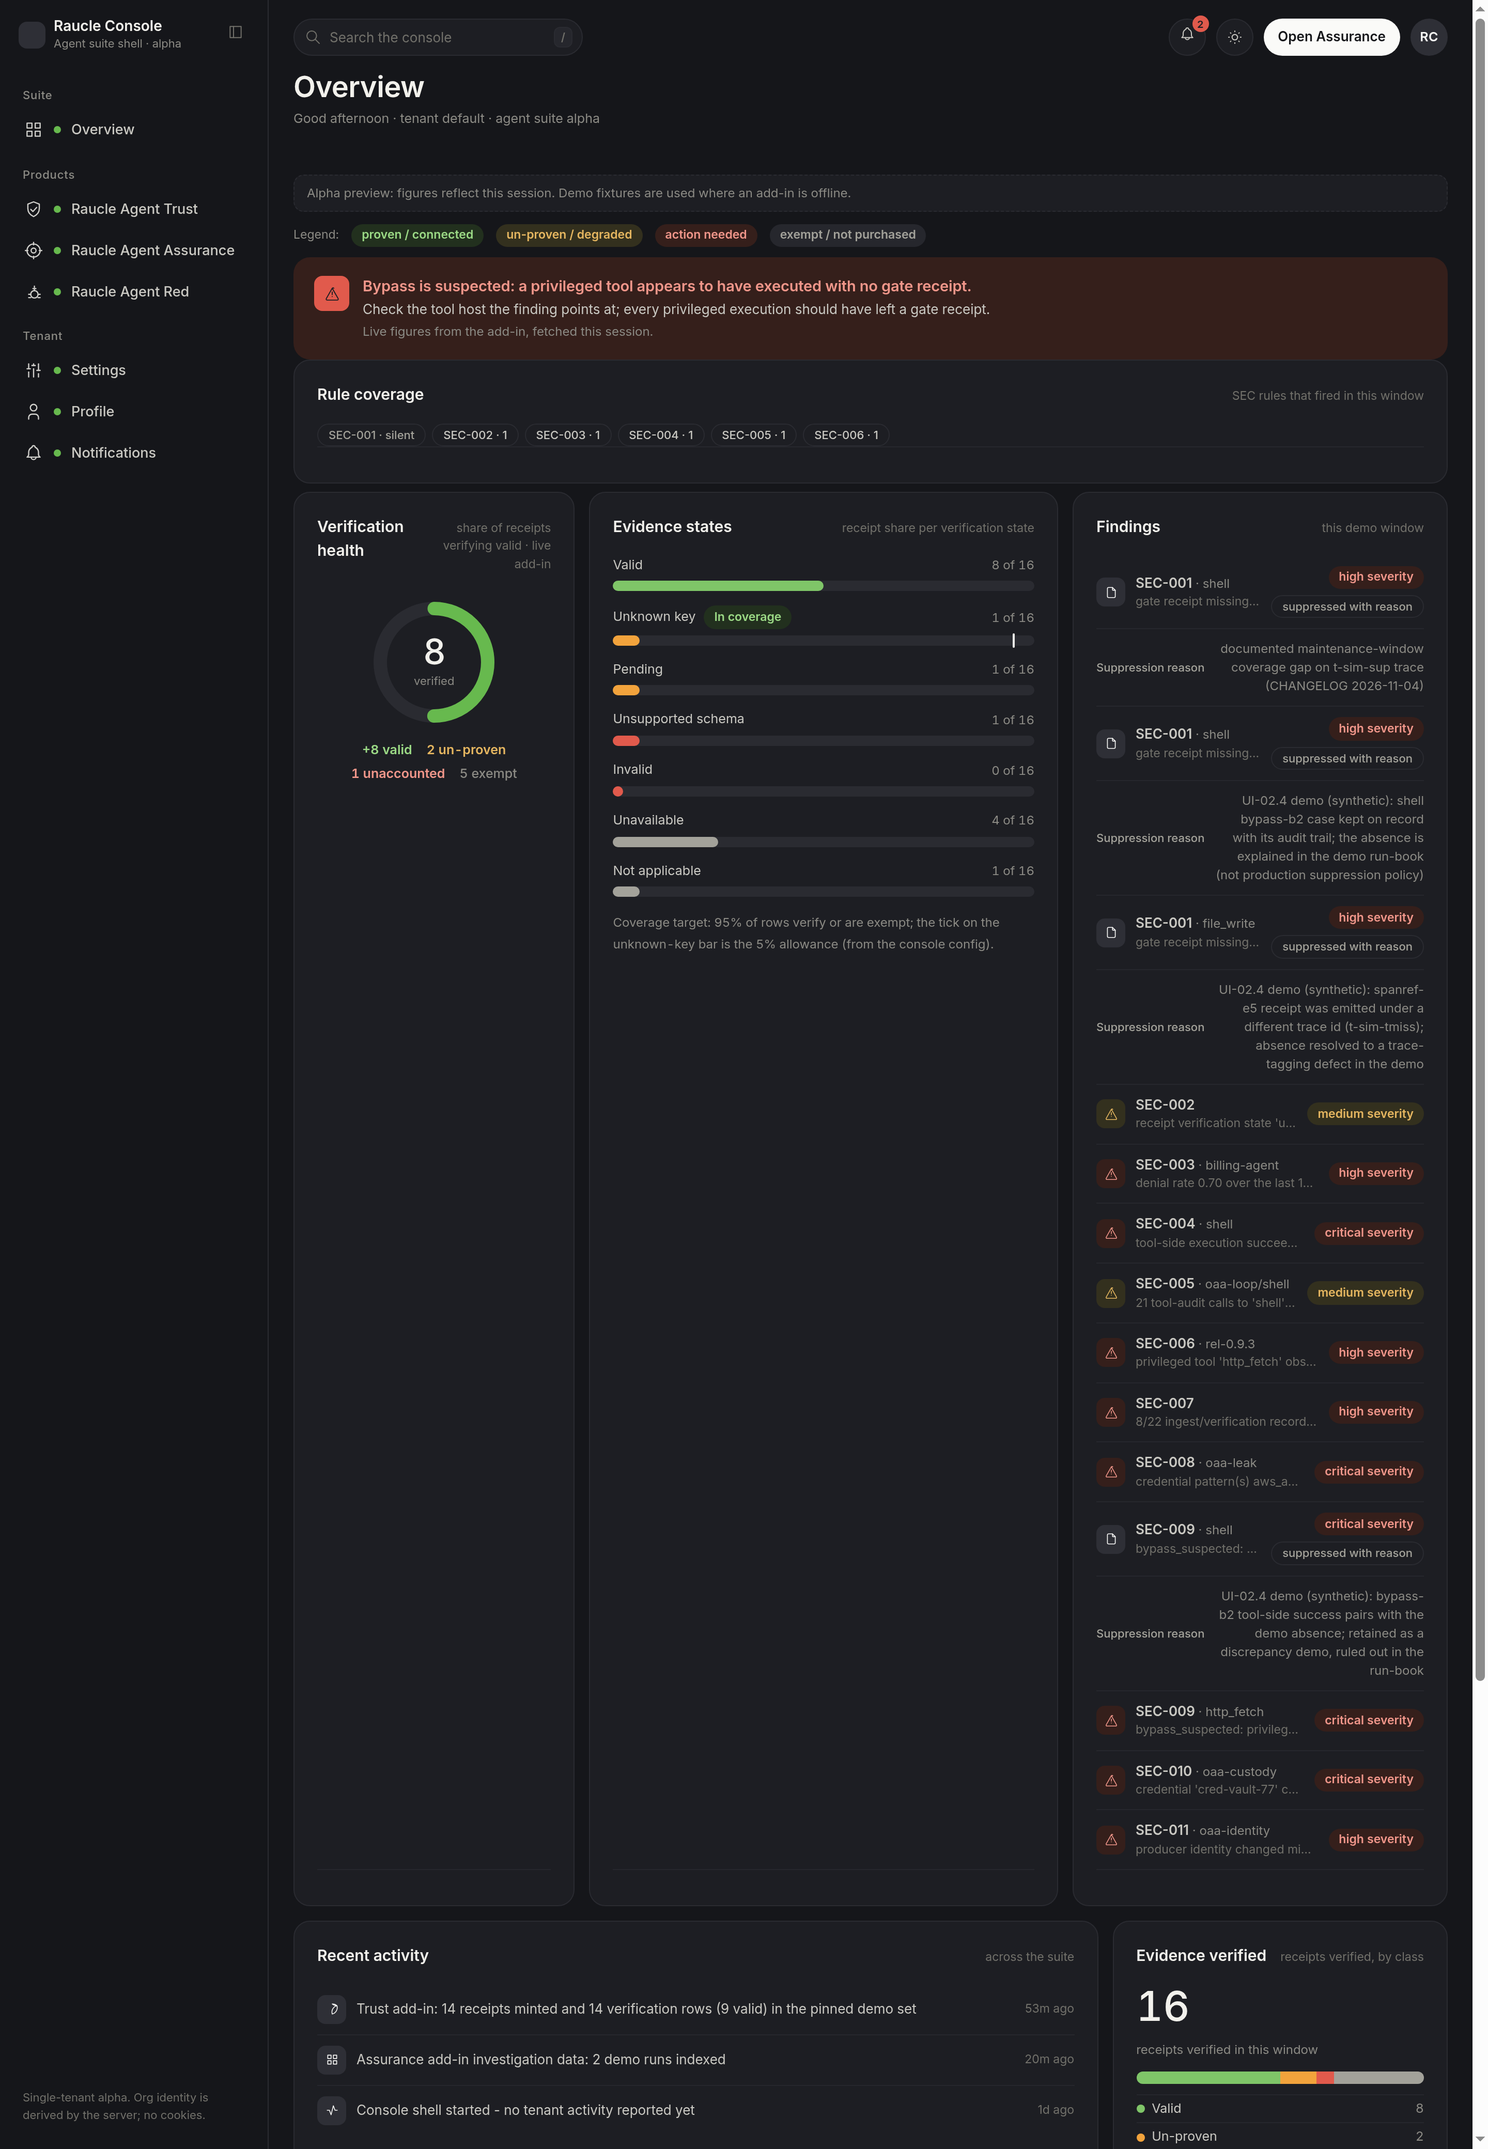
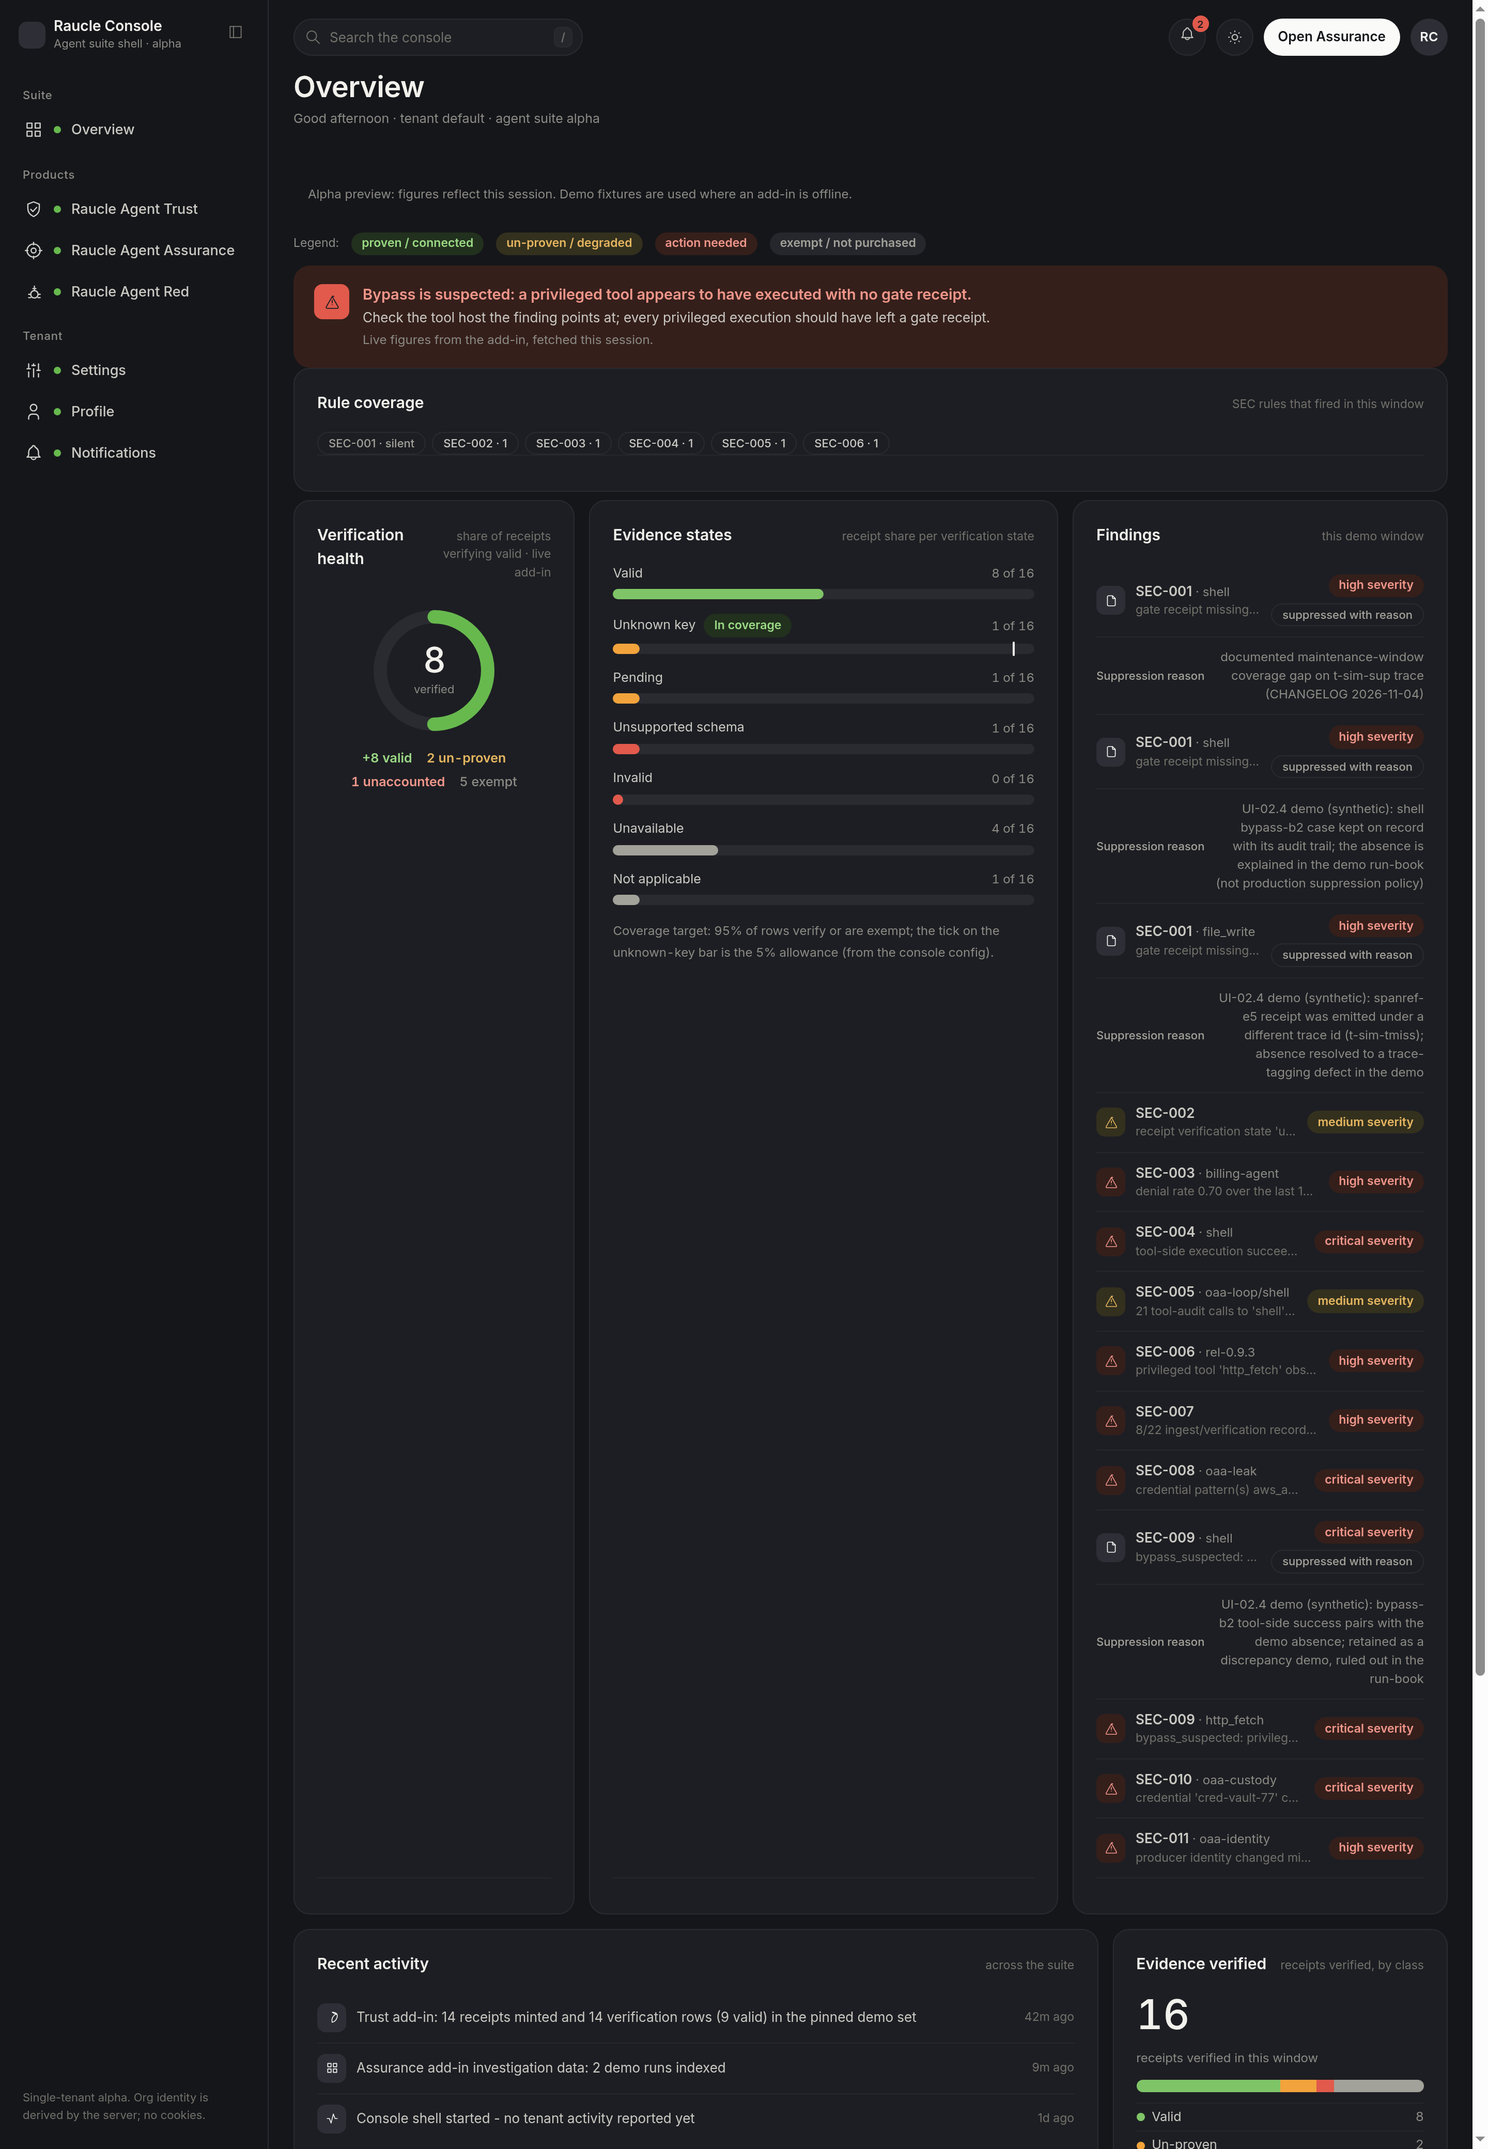
feat: Trust/Assurance/Red definition paragraphs in the alpha notice box; same-origin Red findings-red proxy; demo script Act 5 rewritten for the live Red runner run (named gate, live counters, ingest flow, what-if answers)

diff --git a/services/console/static/index.html b/services/console/static/index.html
@@ -81,7 +81,10 @@
     </div>
 
     <main class="content" id="view" tabindex="0">
-      <p class="alpha-line">Alpha preview: figures reflect this session. Demo fixtures are used where an add-in is offline.</p>
+      <div class="alpha-box">
+        <p class="alpha-line">Alpha preview: figures reflect this session. Demo fixtures are used where an add-in is offline.</p>
+        <p class="alpha-def" id="page-def"></p>
+      </div>
       <div id="legend" class="legendbar" aria-label="Legend"></div>
       <div id="page" aria-live="polite"></div>
     </main>
@@ -163,7 +166,8 @@ let dash = null;      /* add-in dashboard proxy payload; null when offline */
 let counts = null;    /* add-in /api/counts proxy payload; null when offline */
 let findings = null;  /* add-in findings proxy payload; null when offline  */
 let trends = null;    /* per-run trend series from the console /api/trends */
-let config = { assurance_url: 'http://127.0.0.1:3411', trust_gate_env: 'RAUCLE_TRUST_GATE_CONFIG', coverage_target_pct: 95 };
+let portalPolicies = null; /* portal policy summary proxy; {pending:true} when offline/unauthorised */
+let config = { assurance_url: 'http://127.0.0.1:3411', trust_portal_url: 'http://127.0.0.1:8090', trust_gate_env: 'RAUCLE_TRUST_GATE_CONFIG', coverage_target_pct: 95 };
 const COVERAGE_DEFAULT = 95;
 
 const PILL_NAME = { connected: 'Connected', degraded: 'Degraded', not_purchased: 'Not purchased' };
@@ -885,6 +889,34 @@ function viewTrust() {
   cc.body.appendChild(el('p', null, 'Point the console at your gate configuration by setting the environment variable ' + config.trust_gate_env + ' (the path to your gate config). Restart the console after the change; the value itself is never displayed.'));
   cc.explain('The gate config path is read from the environment; the console never displays or echoes the value itself.');
   p.appendChild(cc.root);
+  /* Manage policies (Trust-dashboard reconcile, 4 Nov): the H1 portal
+     is the Trust add-in's management UI - one editor, one version
+     history, one audit trail. This card narrates and links; it never
+     renders a second editor. */
+  const pc = card('Manage policies', 'the portal owns deep management');
+  const where = el('p');
+  where.textContent = 'Policy authoring lives in the operator portal (' + (config.trust_portal_url || 'http://127.0.0.1:8090') + '): the structured policy editor, the immutable version history with diffs, the Trust Ladder, manual activate/disable with signed deployment receipts, and filtered receipt search.';
+  pc.body.appendChild(where);
+  const open = el('a', 'pill tok-info', 'Open the portal');
+  open.href = (config.trust_portal_url || 'http://127.0.0.1:8090') + '/';
+  open.target = '_blank';
+  open.rel = 'noopener';
+  pc.body.appendChild(open);
+  const sum = portalPolicies;
+  if (sum && !sum.pending && sum.total !== undefined) {
+    const chips = el('p');
+    chips.appendChild(el('span', 'pill tok-good', 'active ' + (sum.active || 0)));
+    chips.appendChild(el('span', 'pill tok-look', 'draft ' + (sum.draft || 0)));
+    chips.appendChild(el('span', 'pill tok-exempt', 'disabled ' + (sum.disabled || 0)));
+    chips.appendChild(el('span', 'muted small', 'inventory summary from the portal'));
+    pc.body.appendChild(chips);
+  } else {
+    const pend = el('p', 'muted small');
+    pend.textContent = sum && sum.status === 401 ? 'Portal owns deep management; summary endpoint pending (the console holds no portal credential in alpha).' : 'Portal owns deep management; summary endpoint pending (portal offline).';
+    pc.body.appendChild(pend);
+  }
+  pc.explain('One editor, one version history, one audit trail: deep policy management happens in the portal, this page only narrates and links.');
+  p.appendChild(pc.root);
   return p;
 }
 
@@ -1482,6 +1514,14 @@ function markCurrent(route) {
   });
 }
 
+/* per-product definition, shown in the alpha box under the top notice */
+const PAGE_DEF = {
+  trust: 'Raucle Agent Trust is the gate. It sits between your agents and their tools, checks every privileged call against the policy you signed off before anything executes, and mints a signed receipt for each decision. It proves what was allowed: receipts are signed locally on your own infrastructure and verifiable offline by anyone you authorise, without trusting us.',
+  assurance: 'Raucle Agent Assurance correlates every gate receipt with the agent\u2019s full trace and the tool side\u2019s own audit records. It surfaces what ran outside the gate, evidence gaps and receipts that fail verification, as findings with plain guidance for the analyst. It detects what ran outside; it never re-authorises anything.',
+  red: 'Raucle Agent Red attacks your own gate the way an adversary would: policy scope fuzzing, transport-level attack probes, evidence tampering and credential lease misuse. Every attack it makes is itself gated and receipted, so the testing tool cannot bypass the product it tests. It finds what gets through.',
+  overview: 'One console for the suite: Trust proves what was allowed, Assurance detects what ran outside, Red finds what gets through. Each product is an add-in here, sharing one receipt contract and one honest-evidence rule: valid is never inferred from missing data.',
+};
+
 function go(route) {
   /* drill routes: #/rules/<rule-id> renders the per-rule drill view */
   const clean = route.replace(/^\//, '');
@@ -1494,6 +1534,8 @@ function go(route) {
   paintIcons(pageEl);
   markCurrent(clean);
   history.replaceState(null, '', '#' + clean);
+  const defEl = document.getElementById('page-def');
+  if (defEl) defEl.textContent = ruleMatch ? '' : (PAGE_DEF[clean] || '');
   document.getElementById('page-title').textContent = ruleMatch
     ? ruleMatch[1] + ' drill'
     : (TITLES[clean] || 'Overview');
@@ -1650,6 +1692,10 @@ async function boot() {
     const r = await fetch('/api/trends');
     if (r.ok) trends = await r.json();
   } catch { trends = null; }
+  try {
+    const r = await fetch('/api/trust/policies/summary');
+    if (r.ok) portalPolicies = await r.json(); else portalPolicies = { pending: true };
+  } catch { portalPolicies = { pending: true }; }
   const tenant = overview && overview.tenants ? overview.tenants[0] : { label: 'default' };
   const h = new Date().getHours();
   const word = h < 12 ? 'morning' : h < 18 ? 'afternoon' : 'evening';

diff --git a/services/console/static/app.css b/services/console/static/app.css
@@ -350,3 +350,8 @@ button:focus-visible,input:focus-visible,a:focus-visible,[tabindex]:focus-visibl
 .side-icon{display:inline-flex;align-items:center;justify-content:center;
   width:20px;height:20px;flex:none;color:var(--ink);opacity:.85}
 .side-item[aria-current="page"] .side-icon{opacity:1}
+
+/* alpha box: dashed notice + per-product definition under it */
+.alpha-box{border:1px dashed var(--border);border-radius:10px;padding:10px 14px;margin:0 0 12px}
+.alpha-box .alpha-line{margin-bottom:0;background:none;padding:0;border:0;border-radius:0;color:var(--secondary)}
+.alpha-def{margin:6px 0 0;font-size:12.5px;line-height:1.45;color:var(--muted);max-width:70ch}

diff --git a/services/console/src/raucle_console/app.py b/services/console/src/raucle_console/app.py
@@ -51,6 +51,7 @@ if _investigation_src.is_dir() and str(_investigation_src) not in sys.path:
 # the URL the console was told to use for an add-in, which the operator set.
 ASSURANCE_URL_DEFAULT = "http://127.0.0.1:3411"
 RED_RUNNER_URL_DEFAULT = "http://127.0.0.1:3415"
+TRUST_PORTAL_URL_DEFAULT = "http://127.0.0.1:8090"
 TRUST_GATE_ENV = "RAUCLE_TRUST_GATE_CONFIG"
 
 # Red presets the console previews to the operator. The runner remains the
@@ -262,6 +263,9 @@ def create_app() -> fastapi.FastAPI:
     def _assurance_url() -> str:
         return os.environ.get("RAUCLE_ASSURANCE_URL", ASSURANCE_URL_DEFAULT)
 
+    def _trust_portal_url() -> str:
+        return os.environ.get("RAUCLE_TRUST_PORTAL_URL", TRUST_PORTAL_URL_DEFAULT)
+
     # ------------------------------------------------------------ API (JSON)
     @app.get("/api/overview")
     def api_overview() -> dict:
@@ -328,11 +332,40 @@ def create_app() -> fastapi.FastAPI:
             url = f"http://{host}:3411"
         return {
             "assurance_url": url,
+            "trust_portal_url": _trust_portal_url(),
             "addins": _addins_catalogue(),
             "assurance_reachable": False,  # SPA probes the URL itself
             "trust_gate_env": TRUST_GATE_ENV,
             "coverage_target_pct": COVERAGE_TARGET_PCT,
         }
+
+    @app.get("/api/trust/policies/summary")
+    def api_trust_policies_summary() -> JSONResponse:
+        """Same-origin proxy for the H1 portal's /api/v1/policies/summary
+        (Trust-dashboard reconcile decision, 4 Nov: the portal owns deep
+        policy management; the console narrates and links, never edits).
+        The portal's summary endpoint is authenticated and the console
+        holds no portal credential in alpha, so a 401/403 from the portal
+        is passed through as the honest pending state - never guessed,
+        never faked. Same graceful degradation contract as the other
+        add-in proxies."""
+        try:
+            r = httpx.get(
+                _trust_portal_url().rstrip("/") + "/api/v1/policies/summary",
+                timeout=3.0,
+            )
+            if r.status_code == 200:
+                return JSONResponse(r.json())
+            return JSONResponse(
+                {"error": "portal summary unavailable",
+                 "status": r.status_code},
+                status_code=r.status_code,
+            )
+        except Exception as exc:  # offline: explicit, never a blank
+            return JSONResponse(
+                {"error": "portal offline", "detail": type(exc).__name__},
+                status_code=503,
+            )
 
     @app.get("/api/assurance/dashboard")
     def api_assurance_dashboard() -> JSONResponse:

diff --git a/docs/demo/demo-script.md b/docs/demo/demo-script.md
@@ -13,8 +13,18 @@ cd ~/Projects/open-agent-assurance
 
 Keep handy:
 - UI: http://127.0.0.1:3410
-- Langfuse (spike stack): http://127.0.0.1:3301
+- Console (Raucle Console, with the Red page): http://127.0.0.1:3412
+- Assurance findings board: http://127.0.0.1:3411
+- Red runner: 127.0.0.1:3415 and the demo named gate on 127.0.0.1:3416
 - Repo: 12 commits, 244 tests passing
+
+Runner and demo gate, if down (before Act 5):
+
+```bash
+cd ~/Projects/raucle-agent-red
+.venv/bin/python scripts/demo_gate.py &                     # demo-billing-agent gate, :3416
+env RED_RUNNER_PORT=3415 .venv/bin/uvicorn red.runner.service:app --host 127.0.0.1 --port 3415 &
+```
 
 ## Act 1 — the gate produced signed evidence (Trust)
 
@@ -46,7 +56,56 @@ Evidence panel → **Verify offline**:
 - Findings panel: `SEC-002` unsupported-schema finding + one **suppressed with a documented reason** (suppression keeps, never hides).
 - Say: "Bypass detection compares the gate's receipts with independent tool-side audits. Traces alone never prove or disprove a bypass — a compromised agent can forge traces, but it cannot forge a receipt. Detection strength scales with credential custody."
 
-## Act 5 — the honest report (differentiator against the market's compliance-UI)
+## Act 5 — the live red run (Console Red page)
+
+Open the console (http://127.0.0.1:3412) → **Red** page.
+
+1. **Target selector**: pick the named gate `demo-billing-agent` (registered in the
+   runner's local `gates.yaml`, loopback 3416, no spawn; the runner probes the
+   gate over HTTP like any deployed gate). Alternatively pick `demo gateway`
+   (the pinned gateway, spawned per run).
+2. **Preset**: Quick pass (see "what if asked" below for Deep sweep).
+3. **Press Start**, then narrate while the counters tick:
+   - the attempts / allow / deny counters and the receipts minted line count up;
+     every attack attempt goes through a red identity gate first, so the red run
+     itself is receipted (dogfooding);
+   - the state chip goes grey (idle) → amber (running) → green (complete);
+   - the current suite line walks policy fuzz → gateway HTTP → mcp → tamper →
+     forge → lease.
+   - Real figures to quote (measured 4 November):
+     quick about 90 attempts, deep about 500 attempts / 18 findings, both
+     finished in seconds; see `red docs/deep-sweep-timing.md` in
+     `~/Projects/raucle-agent-red`. Nothing here hangs around: no presenter
+     dead air.
+4. When the run completes, press **Ingest findings into Assurance**, then show the
+   ingested-findings summary. The intake is idempotent by finding_id: re-running
+   ingest replaces, never duplicates.
+5. Show **RED-017 on the board** (http://127.0.0.1:3411): the lease-expiry window
+   finding is now an ingested row on the Assurance board next to the synthetic
+   SEC findings: pentest evidence with the same provenance as everything else.
+6. **Stop** button if needed: graceful abort, the state chip goes red
+   (aborted); the run finishes its current suite and keeps the rows it has.
+
+### What if asked
+
+- **"The console says the runner is offline."** The Red page shows an honest
+  state line and never guesses: the console has no runner in its own process,
+  it proxies to 127.0.0.1:3415 and degrades explicitly. `503 red runner
+  offline` with nothing invented in place of status. Fix is the pre-stage
+  command above (start the runner, wait for idle, press Start again).
+- **"Deep or quick?"** Both finish inside the demo window (seconds: deep
+  sweeps about 500 receipted attempts and lands 18 findings; quick caps at a
+  fixed slice, about 90 attempts). Deep is the honest default for the demo
+  because it costs nothing live.
+- **"Why are there denies? Isn't that a failure?"** No. Each attempt is a red
+  attempt receipt plus the target gate's own decision. A deny is the target
+  gate doing exactly its job against an attack probe. What the run reports is
+  the set of attempts that got PAST the gate against their author intent
+  (allow-beyond-intent, RED-003 and friends) plus parity/tamper gaps. A
+  healthy deny count is the receipt that the boundary held; the evidence
+  exists whether the answer was allow or deny.
+
+## Act 6 — the honest report (differentiator against the market's compliance-UI)
 
 ```bash
 open ops/assurance/example-report.md
@@ -54,7 +113,7 @@ open ops/assurance/example-report.md
 
 Point at the mandatory limits section: scope (gated paths only), per-tool coverage defaulting to `unverified`, and the line that a receipt or report does not establish legal or regulatory compliance. "Every compliance claim in this report is structurally blocked by a test. Contrast: the category leader's dashboard shows 'EU AI Act compliance' as a widget."
 
-## Act 6 — operational reality (optional, if asked)
+## Act 7 — operational reality (optional, if asked)
 
 - `ops/runbook.md`: proven backup/restore round-trip (hashes), restart recovery, upgrade checklist.
 - Load smoke: 1,201 runs / ~24k spans, no measurable producer overhead (smoke, not benchmark).
